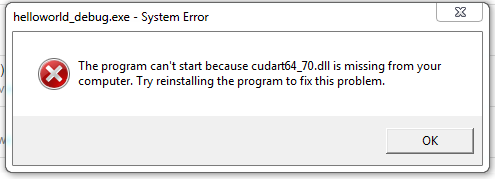
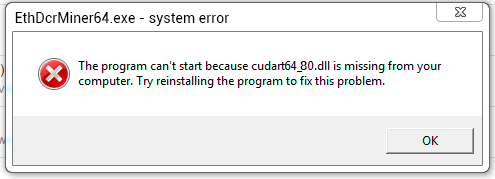
4

Changed region(s): [[0.0606, 0.3352, 0.9091, 0.5028], [0.0, 0.0559, 0.4848, 0.1397], [0.8485, 0.7542, 0.8788, 0.8101]]

diff --git a/zapusk-programmy-nevozmozhen.html b/zapusk-programmy-nevozmozhen.html
@@ -1,0 +1,208 @@
+<!DOCTYPE html>
+<!--[if lt IE 7]><html class="lt-ie9 lt-ie8 lt-ie7" lang="ru" dir="ltr"><![endif]-->
+<!--[if IE 7]><html class="lt-ie9 lt-ie8" lang="ru" dir="ltr"><![endif]-->
+<!--[if IE 8]><html class="lt-ie9" lang="ru" dir="ltr"><![endif]-->
+<!--[if gt IE 8]><!--><html lang="ru" dir="ltr" prefix="content: http://purl.org/rss/1.0/modules/content/ dc: http://purl.org/dc/terms/ foaf: http://xmlns.com/foaf/0.1/ og: http://ogp.me/ns# rdfs: http://www.w3.org/2000/01/rdf-schema# sioc: http://rdfs.org/sioc/ns# sioct: http://rdfs.org/sioc/types# skos: http://www.w3.org/2004/02/skos/core# xsd: http://www.w3.org/2001/XMLSchema#"><!--<![endif]-->
+<head>
+<title>Claymore Miner Запуск программы невозможен (cudart64_80)</title>
+<meta charset="utf-8" />
+<link rel="shortcut icon" href="items/favicon.ico" type="image/vnd.microsoft.icon" />
+<meta name="viewport" content="width=device-width, initial-scale=1.0, user-scalable=yes" />
+<meta name="MobileOptimized" content="width" />
+<meta name="HandheldFriendly" content="true" />
+<meta name="apple-mobile-web-app-capable" content="yes" />
+<meta name="description" content="Запуск программы невозможен в Claymore - различные причины и способы решения этой ошибки в claymore dual ethereum miner" />
+
+<link rel="stylesheet" href="/css/ETH.css">
+<link rel="stylesheet" href="/css/global.base.css">
+<link rel="stylesheet" href="/css/global.styles.css">
+<link rel="stylesheet" href="/css/at.layout.css">
+
+
+<link type="text/css" rel="stylesheet" href="https://use.fontawesome.com/releases/v5.2.0/css/all.css" media="all" />
+<link href="https://fonts.googleapis.com/css?family=Roboto" rel="stylesheet">
+
+<!-- Global site tag (gtag.js) - Google Analytics -->
+<script async src="https://www.googletagmanager.com/gtag/js?id=UA-137173386-2"></script>
+<script>
+  window.dataLayer = window.dataLayer || [];
+  function gtag(){dataLayer.push(arguments);}
+  gtag('js', new Date());
+
+  gtag('config', 'UA-137173386-2');
+</script>
+<!-- Yandex.Metrika counter -->
+<script type="text/javascript" >
+   (function(m,e,t,r,i,k,a){m[i]=m[i]||function(){(m[i].a=m[i].a||[]).push(arguments)};
+   m[i].l=1*new Date();k=e.createElement(t),a=e.getElementsByTagName(t)[0],k.async=1,k.src=r,a.parentNode.insertBefore(k,a)})
+   (window, document, "script", "https://mc.yandex.ru/metrika/tag.js", "ym");
+
+   ym(53083204, "init", {
+        clickmap:true,
+        trackLinks:true,
+        accurateTrackBounce:true,
+        webvisor:true
+   });
+</script>
+<noscript><div><img src="https://mc.yandex.ru/watch/53083204" style="position:absolute; left:-9999px;" alt="" /></div></noscript>
+<!-- /Yandex.Metrika counter -->
+<meta name="yandex-verification" content="1facbca6aff9a0eb" />
+</head>
+
+
+<div id="page-wrapper">
+  <div id="page" class="page at-mt eth-inner">
+
+
+<div id="menu-bar" class="nav clearfix">
+	<nav id="block-menu-menu-primary-menu" class="block block-menu menu-wrapper menu-bar-wrapper clearfix at-menu-toggle block-menu-primary-menu eth-menu" role="navigation">        
+
+		<div class="menu-toggle">
+			<ul class="menu clearfix">
+			<li class="leaf"><a href="https://claymore-dual.github.io/ru" title="">Главная</a></li>
+				<li class="first leaf"><a href="#start" title="">Быстрый старт</a></li>
+				<li class="leaf"><a href="#download" title="">Скачать</a></li>
+
+			</ul>
+		</div>  
+	</nav>
+	</div>
+
+<section class="eth-header">
+	<div class="eth-header-flex">
+		<div class="eth-header-center eth-vi">
+			<div class="eth-header-composition">
+			<h2>Claymore's Dual Ethereum AMD+NVIDIA GPU Miner</h2>
+			<p class="eth-fast"><span class="green">Самый быстрый Ethereum</span>/Ethash майнер с <span class="green">самой низкой комиссией</span></p> 
+			<div class="eth-button"><i class="far fa-arrow-alt-circle-down"></i><a href="https://github.com/Claymore-Dual/Claymore-Dual-Miner/releases/download/14.5/Claymore.s.dual.ethereum.miner.v14.5.-.widows.Password-claymore.zip">Скачать</a>
+			</div>
+			</div>
+		</div>
+	</div>
+</section>
+<section class="eth-art">
+<H1 class="eth-title"><a id="start">Ошибка Socket was Closed Remotely by Pool в Claymore
+</a></h1>
+	<div class="eth-vi2">
+	
+<p>
+<a href="items/crash/socket-closed-remotely-by-pool.png" target="_blank">
+<img src="items/crash/socket-closed-remotely-by-pool.png" alt="socket-closed-remotely-by-pool"></a>
+</p>
+
+<h1>Возможные причины</h1>
+<ol>
+	<li>Брандмауэр или Интернет-провайдер блокирует соединение с пулом</li>
+	<li>Проблемы с Wi-Fi адаптером, который создает некачественное соединение с пулом. Так же при использовании адаптера на ферме, металлический каркас или другое оборудование может мешать сигналу Wi-Fi</li>
+	<li>ошибка может быть связана с прокси, сброс winsock решает проблему.</li>
+	<li>Вас заблокировали на пуле. Например, на сервере daggerhashimoto.eu.nicehash.com:3353 ваш IP заблокировали и  возможно посчитали как DDos атака или что то иное.</li>
+	<li>У вас старая версия Claymore и неправильные команды в батнике</li>
+</ol>
+<h2>Способы решения</h2>
+<ol>
+	<li>Читайте свой файл журнала майнера, что бы понять в чем проблема в конкретном случае. Допишите команду <a href="https://claymore-dual.github.io/dbg-1-claymore">-dbg </a>1 в бат файле.</li>
+	<li>Если проблема  с прокси, то сбросьте winsock.</li>
+	<li>Проверьте пинг до пула. Например для Nicehash это будет команда <code class="red">ping daggerhashimoto.eu.nicehash.com</code>. Пуск - выполнить - CMD. Откройте командную строку Windows и пропишите там эту команду.</li>
+	<li>Если проблема с Wi-Fi, то можно попробовать разные местоположения адаптера на материнской плате</li>
+	<li>Если проблема на стороне пула или вас заблокировали, то просто смените пул</li>
+	<li>Если у Вас устаревшая версия Клеймор или не верно сконфигурированный бат файл, то обновите майнер до последней версии с примерами уже настроенных байт файлов под все поддерживаемые монеты и пулы</li>
+</ol>
+<h2>Старая версия программы</h2>
+<p>Если у Вас устаревшая версия программы – скачайте самую свежую. В ней исправлены все ошибки и недочеты. А так же примеры настроенных .bat файлов под все поддерживаемые монеты и пулы.</p>
+
+
+</div>
+</section>
+<section class="eth-down">
+<div class="eth-title whitez1"><a id="download">Начните добывать Ethereum с Claymore's Dual  Miner </a></div>
+<div class="eth-download">
+	<div class="eth-flex">	
+		<div class="eth-ver">	
+		Последняя версия - v14.5
+		MD5: 44BFA64BA1C97373EFF0E9A4A79E2BB6 *Claymore's Dual Ethereum  AMD+NVIDIA GPU Miner v14.5 - Windows.zip
+		<span class="nev2">(<a href="https://github.com/Claymore-Dual/Claymore-Dual-Miner/releases/download/v12.0/Claymore.s.dual.ethereum.miner.v12.0.-.LINUX.zip">Скачать для Linux</a>)</span>	
+		</div>
+		<div class="eth-get">
+		<span class="eth-password">Пароль: claymore</span>
+		<div class="eth-button down"><i class="far fa-arrow-alt-circle-down"></i>
+		<a href="https://github.com/Claymore-Dual/Claymore-Dual-Miner/releases/download/14.5/Claymore.s.dual.ethereum.miner.v14.5.-.widows.Password-claymore.zip">Скачать сейчас (Windows x64)</a>
+		</div>
+		<span class="eth-mirror">(<a href="https://mega.nz/#!eXpw1aBR!0TurOnJjtEpYuuPHNyvFdnZ6UfbgsFm8n5RZZg2MKHs" target="_blank" rel="nofollow">зеркало</a>)</span>
+		</div>	
+	</div>
+</div>
+</section>
+
+
+
+
+
+
+<!-- footer-->
+<section class="eth-foot">
+	<div class="">
+		<div class="eth-flex">
+			<div class="foot-itm community">
+				<p>Сообщество</p>
+				<ul>
+					<li><a href="https://blog.ethereum.org" target="_blank" rel="nofollow"><i class="fas fa-rss"></i> Блог</a>
+					</li>
+					<li><a href="https://github.com/Claymore-Dual/Claymore-Dual-Miner/releases" target="_blank" rel="nofollow"><i class="fab fa-github"></i> GitHub</a>
+					</li>
+					<li><a href="https://www.youtube.com/user/ethereumproject" target="_blank" rel="nofollow"><i class="fab fa-youtube"></i> YouTube</a>
+					</li>
+					<li><a href="https://www.reddit.com/r/ethereum" target="_blank" rel="nofollow"><i class="fab fa-reddit"></i> Reddit</a>
+					</li>
+					<li><a href="https://gitter.im/orgs/ethereum/rooms" target="_blank" rel="nofollow"><i class="fab fa-gitter"></i> Gitter</a>
+					</li>
+				</ul>
+			</div>
+					
+		<div class="foot-itm community">
+			<ul>
+				<li><a href="https://twitter.com/ethereum" target="_blank" rel="nofollow"><i class="fab fa-twitter"></i> Twitter</a>
+				</li>
+				<li><a href="https://ethereum.stackexchange.com" target="_blank" rel="nofollow"><i class="fab fa-stack-exchange"></i> Stack Exchange</a>
+				</li>
+				<li><a href="https://www.facebook.com/ethereumproject" target="_blank" rel="nofollow"><i class="fab fa-facebook"></i> Facebook                </a>
+				</li>
+				<li><a href="https://ethereum.meetup.com" target="_blank" rel="nofollow"><i class="fab fa-meetup"></i> Встречи</a>
+				</li>
+			</ul>
+		</div>
+		
+			<div class="foot-itm developer-resources">
+			<p>Ресурсы для разработчиков</p>
+			<ul>
+				<li>What is Ether? <a href="#FAQ">Read our FAQ</a></li>
+				<li>Browse our source code on <a href="https://github.com/Claymore-Dual/Claymore-Dual-Miner/releases" target="_blank" rel="nofollow">GitHub</a></li>
+				<li>Read the <a href="http://www.ethdocs.org/" target="_blank" rel="nofollow">documentation</a>
+		or <a href="https://github.com/ethereum/wiki/wiki" target="_blank" rel="nofollow">wiki</a></li>
+		<li>Learn <a href="https://solidity.readthedocs.org/" target="_blank" rel="nofollow">Solidity</a></li>
+		<li>See the latest <a href="https://ethstats.net" target="_blank" rel="nofollow">data and network stats</a>
+		</li>
+		<li>Download our <a href="https://www.ethereum.org/assets" rel="nofollow">logo assets </a></li>
+		<li>Want to write about Ethereum? <a href="mailto:press@ethereum.org">Press inquiries</a>
+		</li>
+		<li>switch to the <a href="/ru">English language.</a>
+		</li>
+			</ul>
+			</div>
+		</div>
+	</div>
+</section>
+<section class="eth-post-foot clearfix">
+	<div class="eth-vi2">
+		<div class="nev3 eth-left">Note, when downloading the Claymore Miner, Windows may issue a warning, but if you used Claymore Dual Miner download link you can ignore this.
+		</div>
+
+		<div class="nev3 eth-right">Disclaimer: This isn't an official Claymores site.  No binary files were affected.
+
+		All rights belong to their respective owners. © 2018-2019
+		</div>
+	</div>
+	<a href="https://claymore-dual.github.io/cookie" class="eth-policy" target="_blank" rel="nofollow">Cookie Policy</a>
+</section>
+  </div>
+</div>  </body>
+</html>
